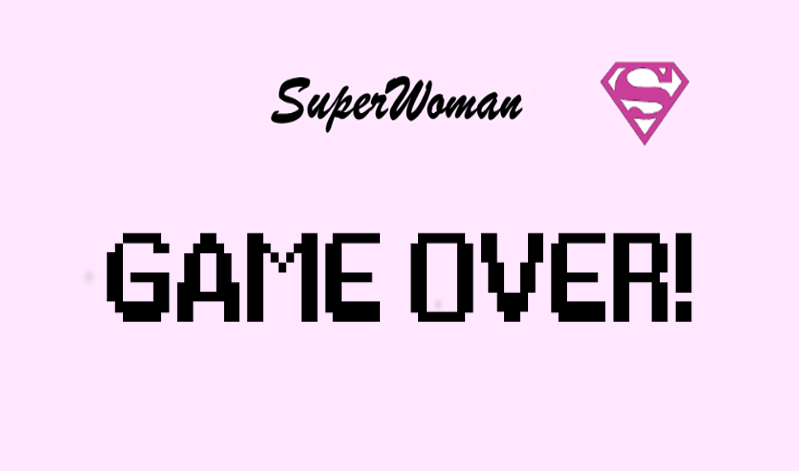
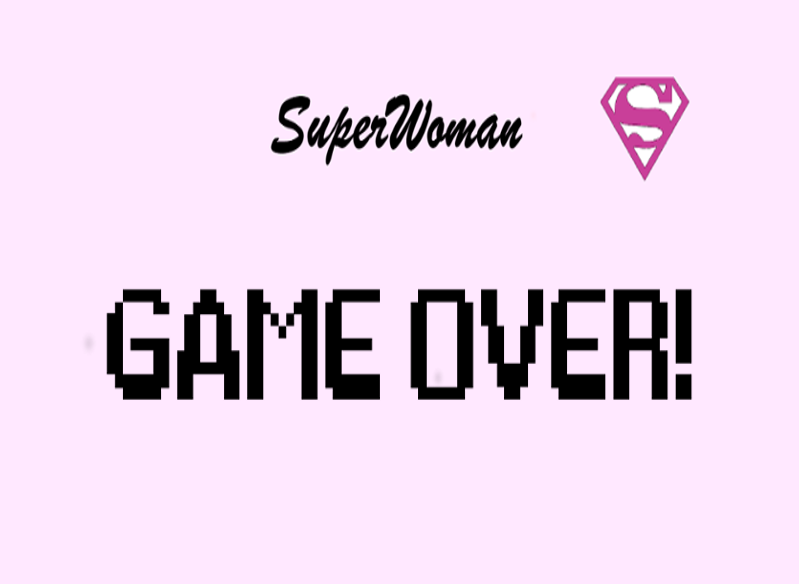
Updated background image

diff --git a/WebContent/JavaScript/game.js b/WebContent/JavaScript/game.js
@@ -5,7 +5,6 @@ import {loadImage, loadLevel} from './loaders.js';
 
 const canvas = document.getElementById('screen');
 const context = canvas.getContext('2d');
-// context.fillRect(0,0,500,500);
 
 	var pos = {
 		x: 40,
@@ -23,7 +22,7 @@ const context = canvas.getContext('2d');
 	var posBrick = new Array();
 	
 		function loadcity() {
-			return loadImage('img/city.PNG')
+			return loadImage('img/city2.png')
 				.then(image => {
 					const sprites = new SpriteSheet(image, 800, 471);
 					sprites.define('city', 0, 0);
@@ -36,7 +35,7 @@ const context = canvas.getContext('2d');
 		function drawGameover() {
 			return loadImage('img/gameOver.png')
 				.then(image => {
-					const sprites = new SpriteSheet(image, 800, 471);
+					const sprites = new SpriteSheet(image, 800, 584);
 					sprites.define('gameOver', 0, 0);
 					sprites.draw('gameOver', context, 1,0);
 				});
